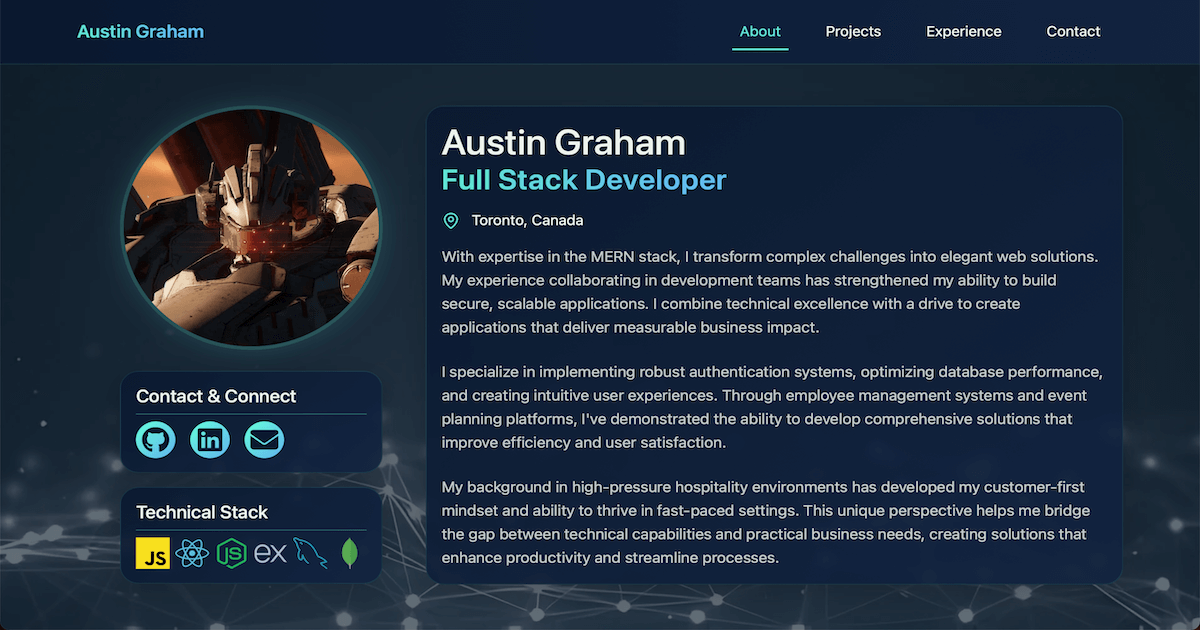
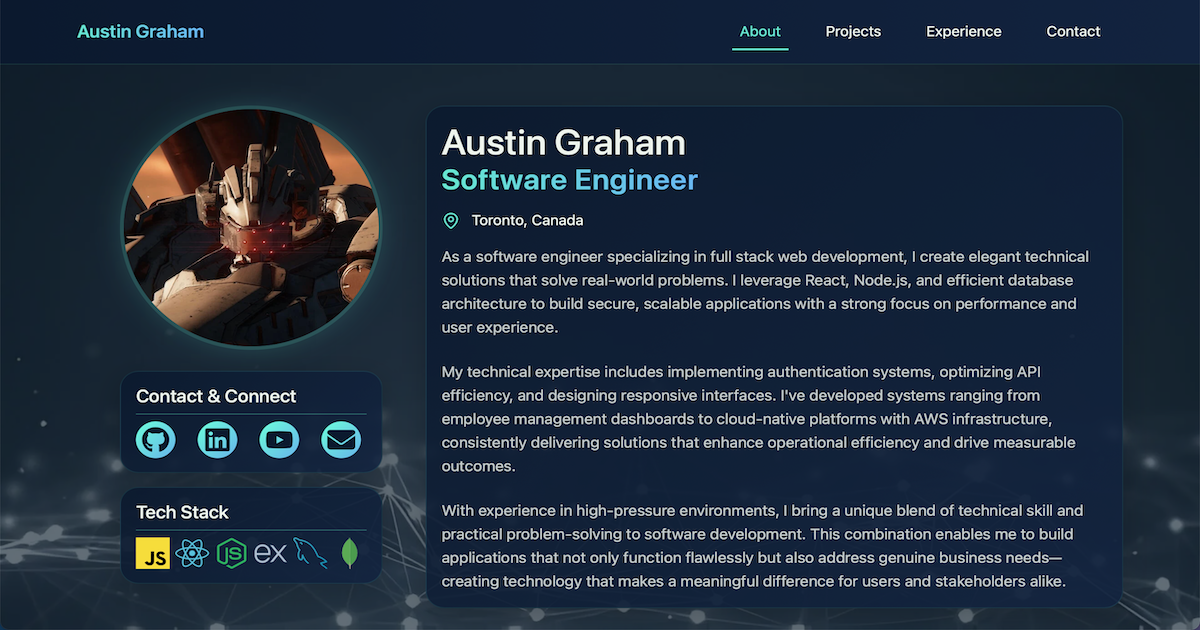
updated expertise description, updated screenshots

diff --git a/src/pages/About/constants/index.js b/src/pages/About/constants/index.js
@@ -1,5 +1,5 @@
 import { Terminal, Database, Layout, GitBranch } from 'lucide-react';
-import { faGithub, faLinkedin } from '@fortawesome/free-brands-svg-icons';
+import { faGithub, faLinkedin, faYoutube } from '@fortawesome/free-brands-svg-icons';
 import { faEnvelope } from '@fortawesome/free-solid-svg-icons';
 
 export const techStack = [
@@ -23,6 +23,11 @@ export const socialLinks = [
     label: "Connect with me on LinkedIn"
   },
   {
+    href: "https://www.youtube.com/@arcaneviva",
+    icon: faYoutube,
+    label: "Subscribe to my YouTube channel"
+  },
+  {
     href: "mailto:hello@austingraham.ca",
     icon: faEnvelope,
     label: "Send me an email"
@@ -32,17 +37,17 @@ export const socialLinks = [
 export const expertiseData = [
   {
     title: "Frontend Development",
-    description: "JavaScript, React, Responsive Design, UI/UX Best Practices",
+    description: "React, JavaScript, Responsive Design, UI/UX Best Practices",
     icon: Layout,
   },
   {
     title: "Backend Development",
-    description: "Node.js, Express, RESTful APIs, Database Design",
+    description: "Node.js, Express, RESTful APIs, Authentication Systems",
     icon: Terminal,
   },
   {
     title: "Database Management",
-    description: "MySQL, MongoDB, Sequelize ORM, Data Modeling",
+    description: "MySQL, MongoDB, Redis, Efficient Data Modeling",
     icon: Database,
   },
   {

diff --git a/src/pages/About/components/Biography.jsx b/src/pages/About/components/Biography.jsx
@@ -43,7 +43,7 @@ export const Biography = ({ animations }) => (
     <div className="d-lg-none bio-mobile-sections">
       <h2 className="visually-hidden">Additional Information</h2>
       <div className="technical-stack-section mt-3">
-        <h3 className="h5 text-start">Technical Stack</h3>
+        <h3 className="h5 text-start">Tech Stack</h3>
         <hr className="skill-divider mt-0 mb-2" aria-hidden="true" />
         <StackIcons animations={animations} />
       </div>

diff --git a/src/pages/About/components/ProfileImage.jsx b/src/pages/About/components/ProfileImage.jsx
@@ -35,7 +35,7 @@ export const ProfileImage = ({ animations }) => (
         </div>
 
         <div className="technical-stack-section mt-3 d-none d-lg-block">
-          <h3 className="h5 text-start">Technical Stack</h3>
+          <h3 className="h5 text-start">Tech Stack</h3>
           <hr className="skill-divider mt-0 mb-2" aria-hidden="true" />
           <StackIcons animations={animations} />
         </div>

diff --git a/src/pages/About/components/SocialLinks.jsx b/src/pages/About/components/SocialLinks.jsx
@@ -10,7 +10,7 @@ export const SocialLinks = ({ animations }) => (
     animate="visible"
     variants={animations?.staggerContainer}
   >
-    <ul className="list-unstyled d-flex align-items-center gap-3 mb-0">
+    <ul className="list-unstyled d-flex align-items-center gap-4 mb-0">
       {socialLinks.map((link) => (
         <motion.li
           key={link.href}
